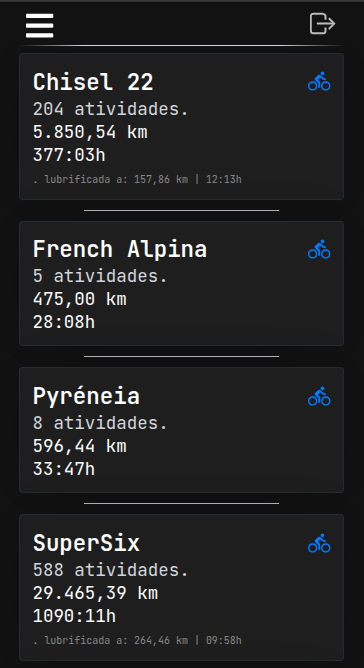
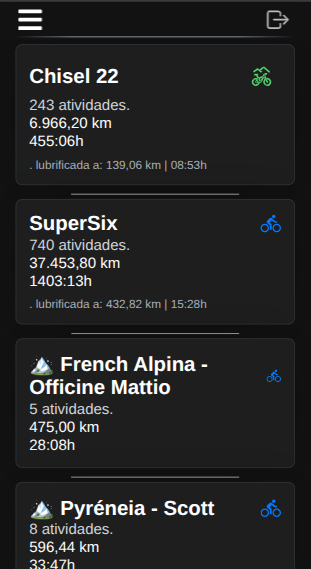
Merge pull request #30 from rbalbix/fix/pictures
(fix) update HowItWorksContent with additional Strava login instructi…

Pull request: (fix) update HowItWorksContent with additional Strava login instructi…
…ons and pictures

diff --git a/src/components/HowItWorksContent.tsx b/src/components/HowItWorksContent.tsx
@@ -53,7 +53,8 @@ export default function HowItWorksContent({
             aria-hidden='true'
             focusable='false'
           />{' '}
-          localizado no canto superior direito da tela.
+          localizado no canto superior direito da tela ou no botão &quot;Entrar
+          com Strava&quot;.
         </li>
         <li>
           Você será redirecionado para a página de autenticação do Strava.